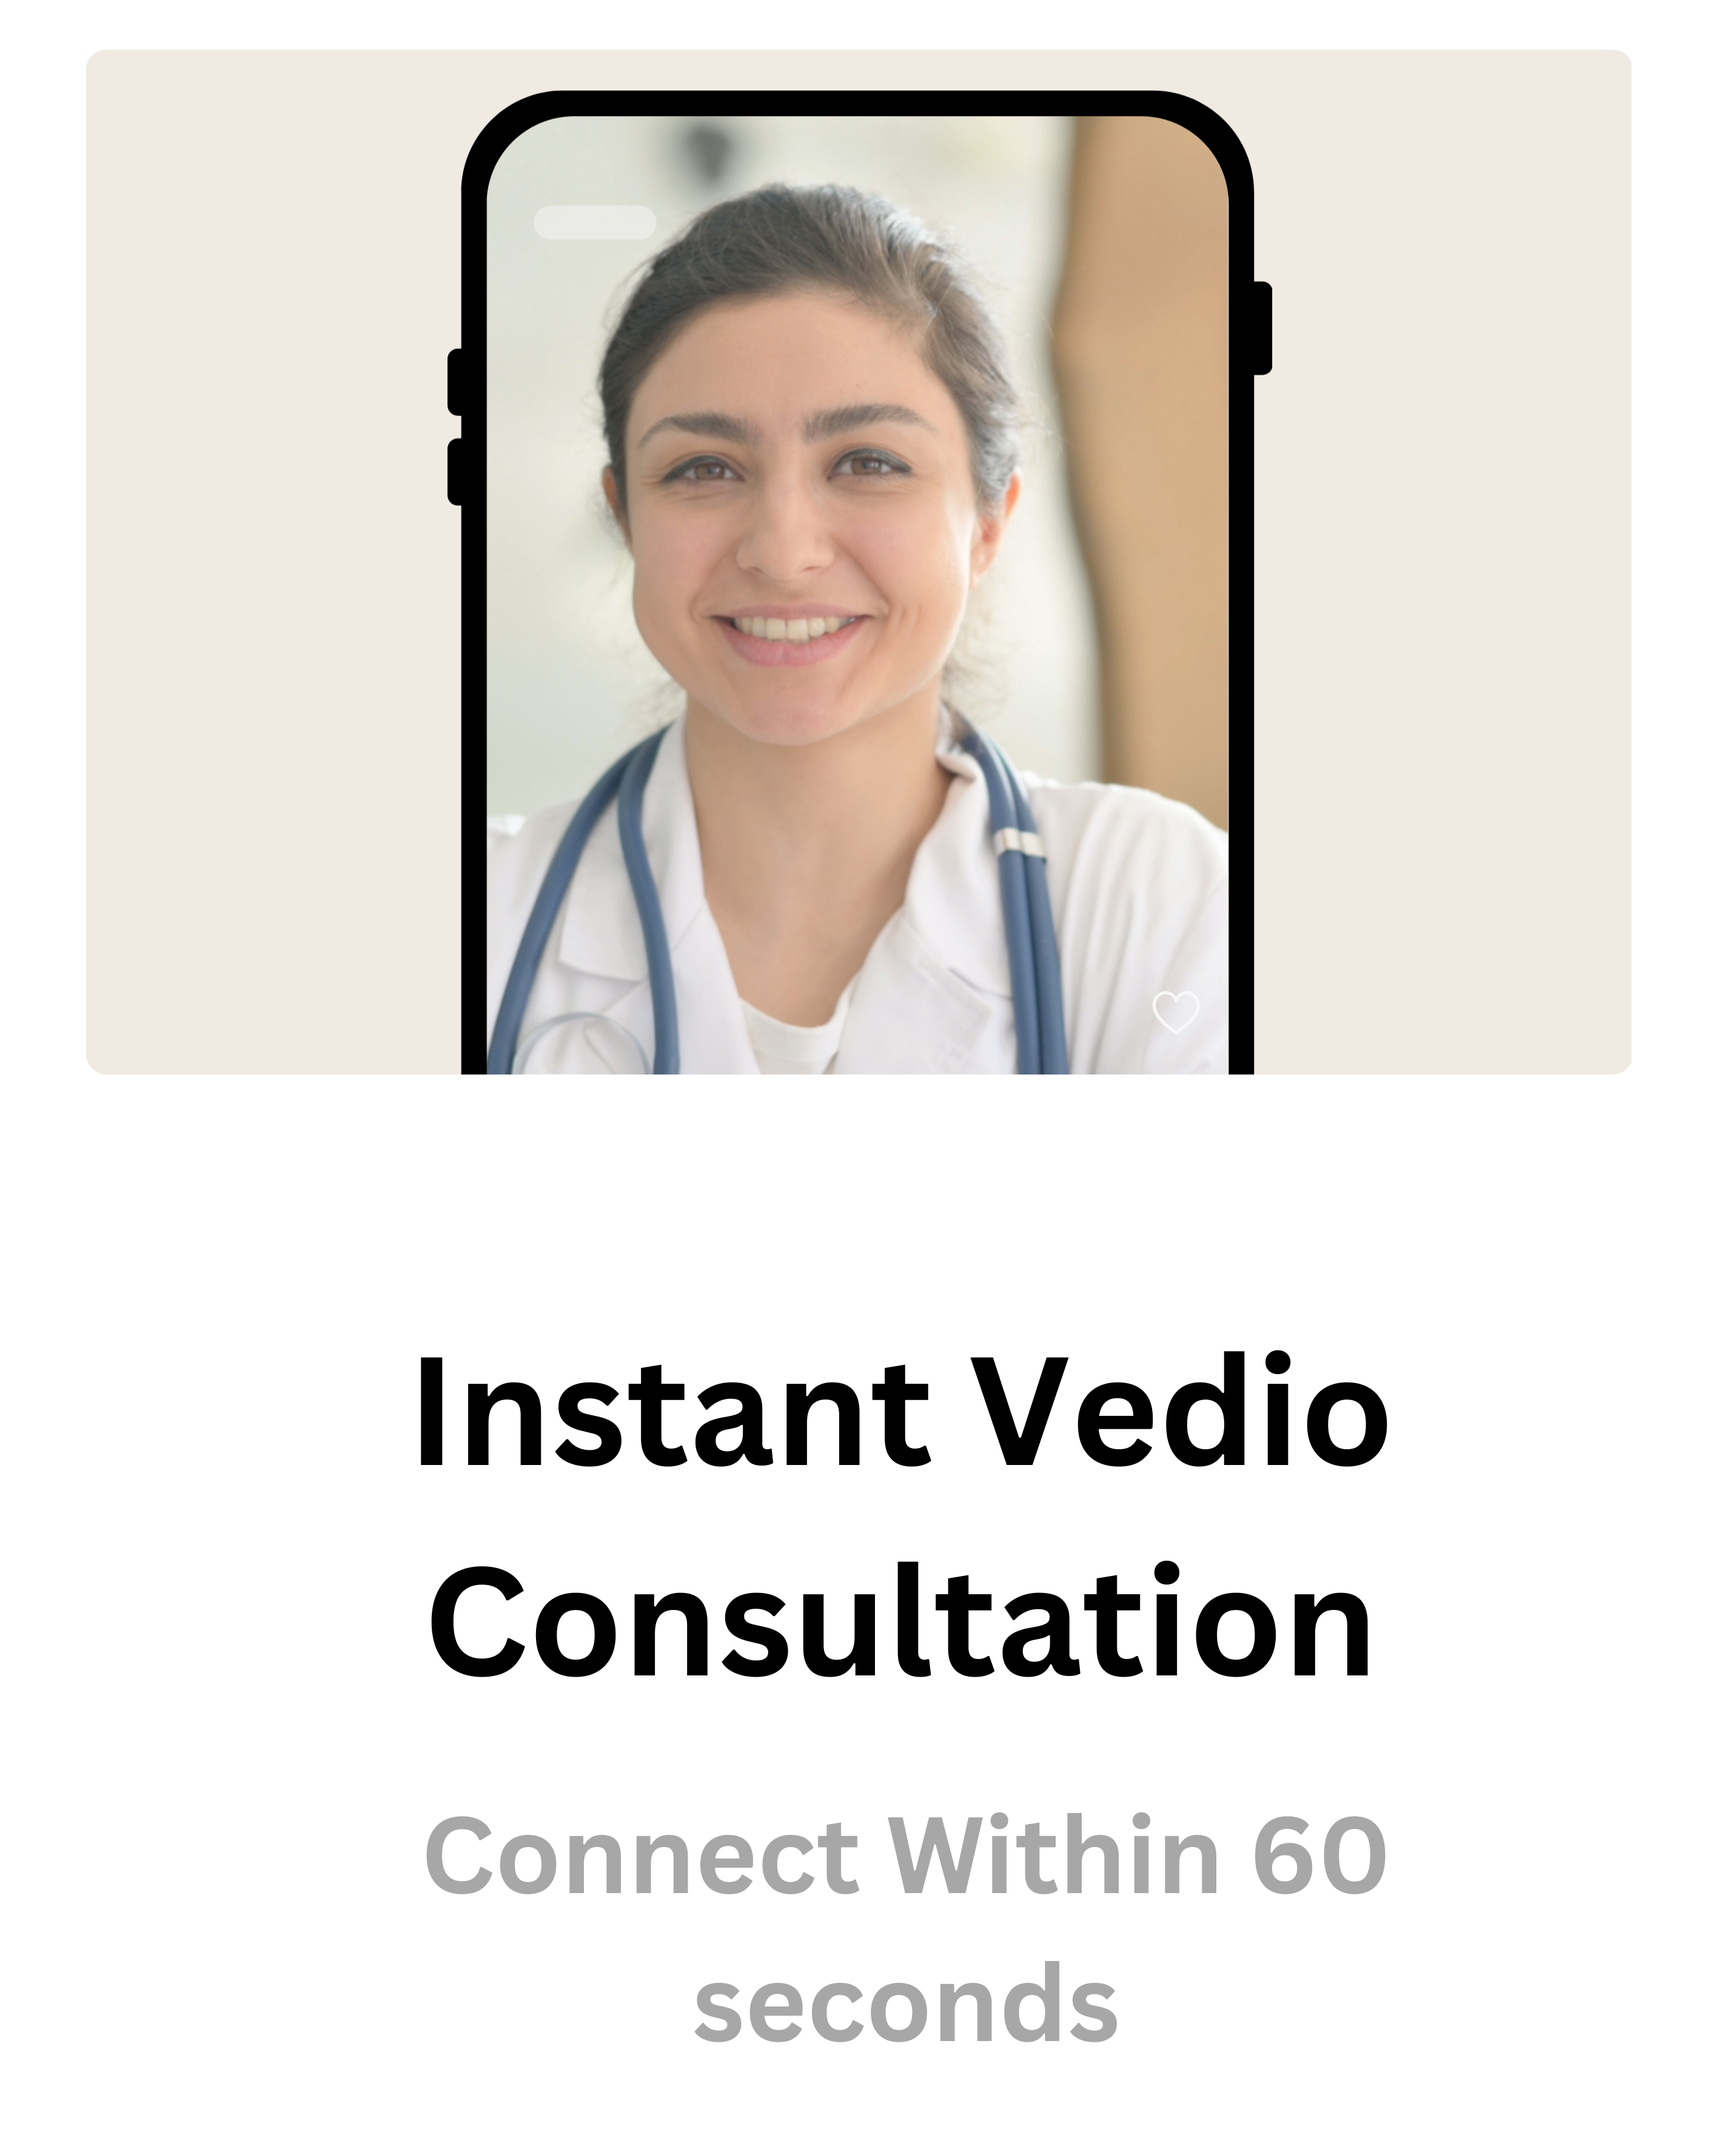
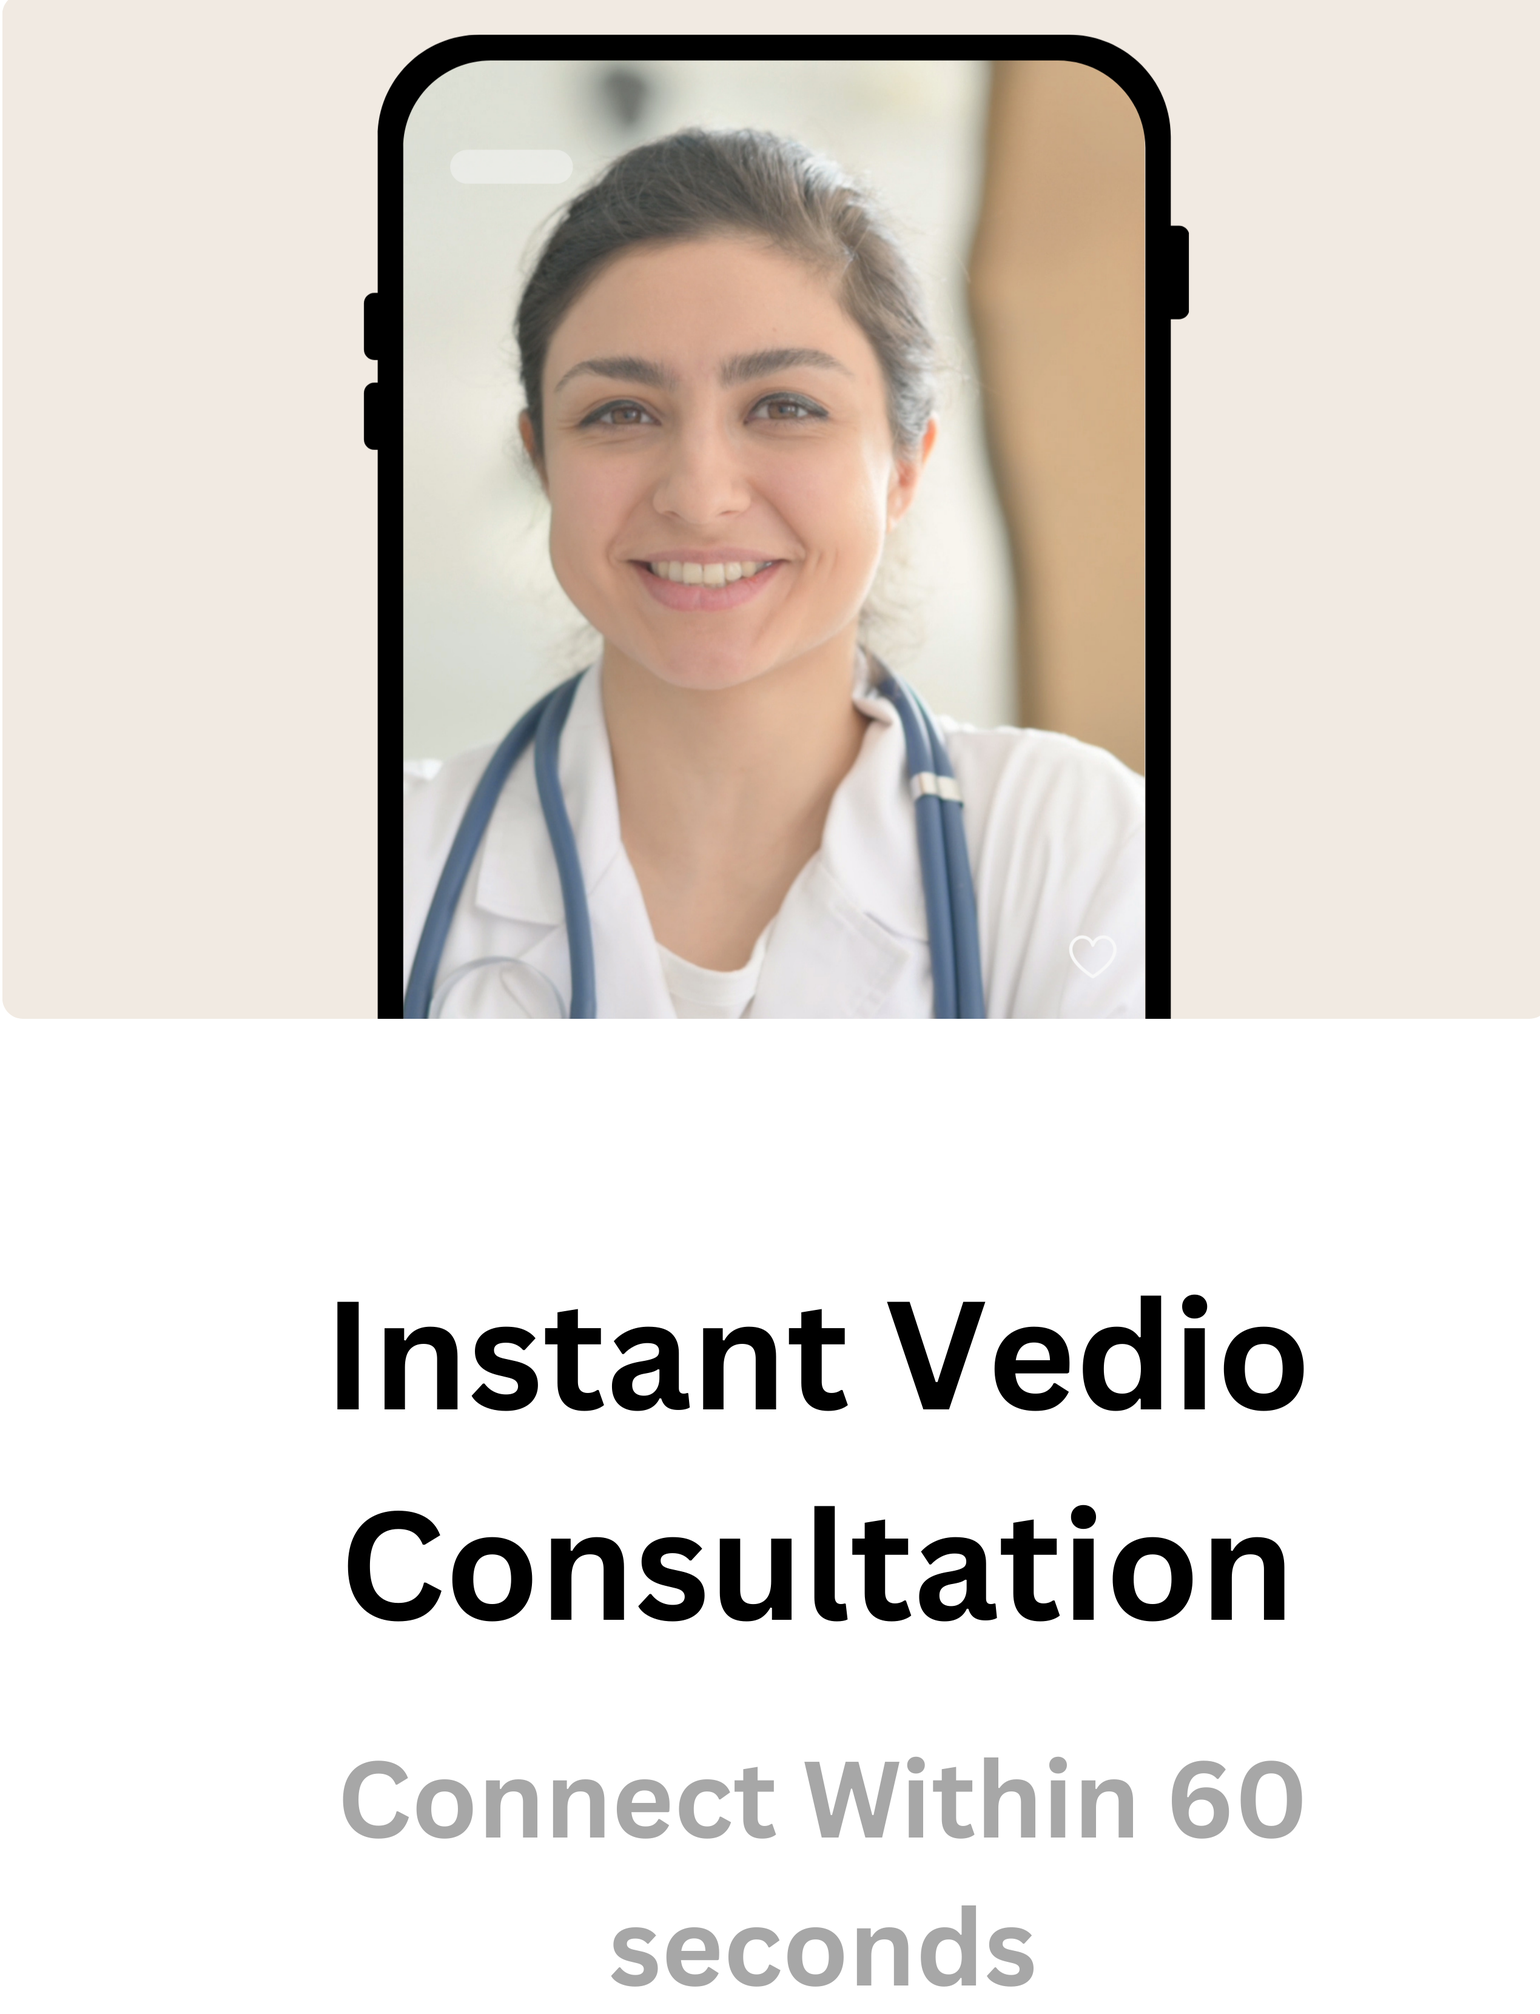
fixed service card, carousel

Changed region(s): [[0.0, 0.0, 1.0, 0.5273], [0.2178, 0.6203, 0.8401, 0.8064], [0.2178, 0.8374, 0.8401, 0.9925]]

diff --git a/view/src/screens/TeethTreatmentScreen.tsx b/view/src/screens/TeethTreatmentScreen.tsx
@@ -2,7 +2,7 @@
 /* eslint-disable @typescript-eslint/no-unsafe-assignment */
 import React from 'react';
 import { View, Text, StyleSheet, ScrollView, Image } from 'react-native';
-import Video from 'react-native-video';
+import { Video } from 'expo-av';
 
 const sections = [
   {
@@ -14,7 +14,7 @@ const sections = [
   },
   {
     title: 'teeth gap symptoms',
-    video: require('../../public/videos/v6.mp4'),
+    video: require('../../assets/videos/v6.mp4'),
     content:
       '• pain - if the gap in between your teeth is caused by underlying gum disease, then you may experience pain every time you bite or chew your food.\n\n• redness - gums turning bright red or purplish is common with gum disease.\n\n• swelling or tenderness - swollen or bleeding gums and loose teeth are other signs.',
   },
@@ -26,7 +26,7 @@ const sections = [
   },
   {
     title: 'teeth gap causes',
-    video: require('../../public/videos/v1.mp4'),
+    video: require('../../assets/videos/v1.mp4'),
     content:
       '• advanced gum disease - can damage tissues and bones.\n\n• poor habits - like thumb-sucking or lip biting in childhood can lead to gaps.',
   },
@@ -39,7 +39,7 @@ const sections = [
   },
   {
     title: 'teeth gap causes',
-    video: require('../../public/videos/v2.mp4'),
+    video: require('../../assets/videos/v2.mp4'),
     content:
       '• advanced gum disease - can damage tissues and bones.\n\n• poor habits - like thumb-sucking or lip biting in childhood can lead to gaps.',
   },
@@ -54,7 +54,7 @@ const sections = [
     title: 'crooked teeth',
     content:
       'Crooked teeth can affect chewing, oral hygiene, and self-confidence. Causes include genetics, thumb-sucking, and overcrowding.',
-    video: require('../../public/videos/v3.mp4'),
+    video: require('../../assets/videos/v3.mp4'),
   },
   {
     title: 'deep bite',
@@ -67,7 +67,7 @@ const sections = [
     title: 'underbite',
     content:
       'An underbite occurs when the lower teeth protrude past the upper teeth. It can make chewing difficult and cause jaw joint problems.',
-    video: require('../../public/videos/v5.mp4'),
+    video: require('../../assets/videos/v5.mp4'),
   },
   {
     title: 'overbite',
@@ -80,7 +80,7 @@ const sections = [
     title: 'crossbite',
     content:
       'A crossbite occurs when some of the upper teeth sit inside the lower teeth. It can lead to tooth wear, gum recession, and jaw problems.',
-    video: require('../../public/videos/v4.mp4'),
+    video: require('../../assets/videos/v4.mp4'),
   },
 ];
 
@@ -95,15 +95,7 @@ export default function TeethTreatmentScreen() {
             <Image source={sec.image} style={styles.image} resizeMode="cover" />
           )}
 
-          {sec.video && (
-            <Video
-              source={sec.video}
-              style={styles.video}
-              resizeMode="cover"
-              controls
-              paused
-            />
-          )}
+          {sec.video && <Video source={sec.video} style={styles.video} />}
 
           <Text style={styles.content}>{sec.content}</Text>
         </View>

diff --git a/view/src/components/ServiceCards.tsx b/view/src/components/ServiceCards.tsx
@@ -1,32 +1,37 @@
-/* eslint-disable @typescript-eslint/no-unsafe-call */
 /* eslint-disable @typescript-eslint/no-unsafe-member-access */
-/* eslint-disable @typescript-eslint/no-unsafe-assignment */
+/* eslint-disable @typescript-eslint/no-unsafe-call */
 /* eslint-disable @typescript-eslint/no-require-imports */
+/* eslint-disable @typescript-eslint/no-unsafe-assignment */
 import React from 'react';
-import { View, StyleSheet, TouchableOpacity, Image } from 'react-native';
+import {
+  View,
+  StyleSheet,
+  TouchableOpacity,
+  Image,
+  Dimensions,
+} from 'react-native';
 
 const services = [
   {
     title: 'Book Appointment',
-    desc: 'With Top Ayurvedic Doctors',
     image: require('../../assets/images/book.png'),
   },
   {
     title: 'Instant Video Consultation',
-    desc: 'Connects within 60 seconds',
     image: require('../../assets/images/book2.png'),
   },
   {
     title: 'Buy Medicines',
-    desc: 'Top Ayurvedic Products',
     image: require('../../assets/images/book3.png'),
   },
   {
     title: 'Beauty Products',
-    desc: 'Exclusive lifestyle products',
     image: require('../../assets/images/book4.png'),
   },
 ];
+
+const SCREEN_WIDTH = Dimensions.get('window').width;
+const CARD_WIDTH = (SCREEN_WIDTH - 48) / 2;
 
 export default function ServiceCards({ navigation }: any) {
   const handlePress = (title: string) => {
@@ -36,11 +41,10 @@ export default function ServiceCards({ navigation }: any) {
     ) {
       navigation.navigate('ConsultationOption');
     } else {
-      navigation.navigate('EComScreen', {
-        title: title,
-      });
+      navigation.navigate('EComScreen', { title });
     }
   };
+
   return (
     <View style={styles.grid}>
       {services.map((item, idx) => (
@@ -49,7 +53,7 @@ export default function ServiceCards({ navigation }: any) {
           style={styles.card}
           onPress={() => handlePress(item.title)}
         >
-          <Image source={item.image} style={styles.image} resizeMode="cover" />
+          <Image source={item.image} style={styles.image} />
         </TouchableOpacity>
       ))}
     </View>
@@ -60,23 +64,26 @@ const styles = StyleSheet.create({
   grid: {
     flexDirection: 'row',
     flexWrap: 'wrap',
-    justifyContent: 'space-between',
+    justifyContent: 'space-around',
     paddingHorizontal: 12,
+    marginTop: 6,
   },
   card: {
-    width: '48%',
-    aspectRatio: 1,
-    borderRadius: 10,
+    width: CARD_WIDTH * 0.8,
+    height: CARD_WIDTH,
+    borderRadius: 16,
     overflow: 'hidden',
-    marginBottom: 12,
+    backgroundColor: '#fff',
+    marginBottom: 10,
     shadowColor: '#000',
-    shadowOpacity: 0.1,
-    shadowRadius: 4,
-    elevation: 2,
+    shadowOffset: { width: 0, height: 1 },
+    shadowOpacity: 0.08,
+    shadowRadius: 2,
+    elevation: 1,
   },
   image: {
-    width: '80%',
+    width: '100%',
     height: '100%',
-    margin: 'auto',
+    borderRadius: 10,
   },
 });

diff --git a/view/src/screens/MydentAligners.tsx b/view/src/screens/MydentAligners.tsx
@@ -9,6 +9,14 @@ import {
   StyleSheet,
   TouchableOpacity,
 } from 'react-native';
+import { Video } from 'expo-av';
+
+const videoSources = [
+  require('../../assets/videos/mydentproducts1.mp4'),
+  require('../../assets/videos/mydentproducts2.mp4'),
+  require('../../assets/videos/mydentproducts3.mp4'),
+  require('../../assets/videos/mydentproducts4.mp4'),
+];
 
 const MyDentAlignersScreen = () => {
   return (
@@ -114,6 +122,17 @@ const MyDentAlignersScreen = () => {
           </View>
         ))}
       </View>
+      {/* Video Previews - Circular Layout */}
+      <View style={styles.section}>
+        <Text style={styles.title}>See Our Aligners in Action</Text>
+        <View style={styles.videoRow}>
+          {videoSources.map((source, index) => (
+            <View key={index} style={styles.videoWrapper}>
+              <Video source={source} style={styles.circularVideo} />
+            </View>
+          ))}
+        </View>
+      </View>
 
       {/* Pricing */}
       <View style={styles.section}>
@@ -173,6 +192,25 @@ const styles = StyleSheet.create({
     alignItems: 'center',
   },
   buttonText: { color: '#fff', fontWeight: 'bold' },
+  videoRow: {
+    flexDirection: 'row',
+    flexWrap: 'wrap',
+    justifyContent: 'space-between',
+    gap: 10,
+  },
+
+  videoWrapper: {
+    width: 100,
+    height: 100,
+    borderRadius: 50,
+    overflow: 'hidden',
+    marginVertical: 10,
+  },
+
+  circularVideo: {
+    width: '100%',
+    height: '100%',
+  },
 });
 
 export default MyDentAlignersScreen;

diff --git a/view/src/components/Carousel.tsx b/view/src/components/Carousel.tsx
@@ -13,7 +13,7 @@ interface CarouselProps {
 
 const { width: screenWidth } = Dimensions.get('window');
 
-const imageWidth = screenWidth * 0.9;
+const imageWidth = screenWidth;
 export default function Carousel({ images }: CarouselProps) {
   return (
     <ScrollView
@@ -30,11 +30,9 @@ export default function Carousel({ images }: CarouselProps) {
 }
 
 const styles = StyleSheet.create({
-  container: { height: 150, marginBottom: 12, marginRight: 10, marginLeft: 10 },
+  container: { height: 150, marginBottom: 12 },
   image: {
     width: imageWidth,
     height: 150,
-    borderRadius: 10,
-    marginHorizontal: 6,
   },
 });
